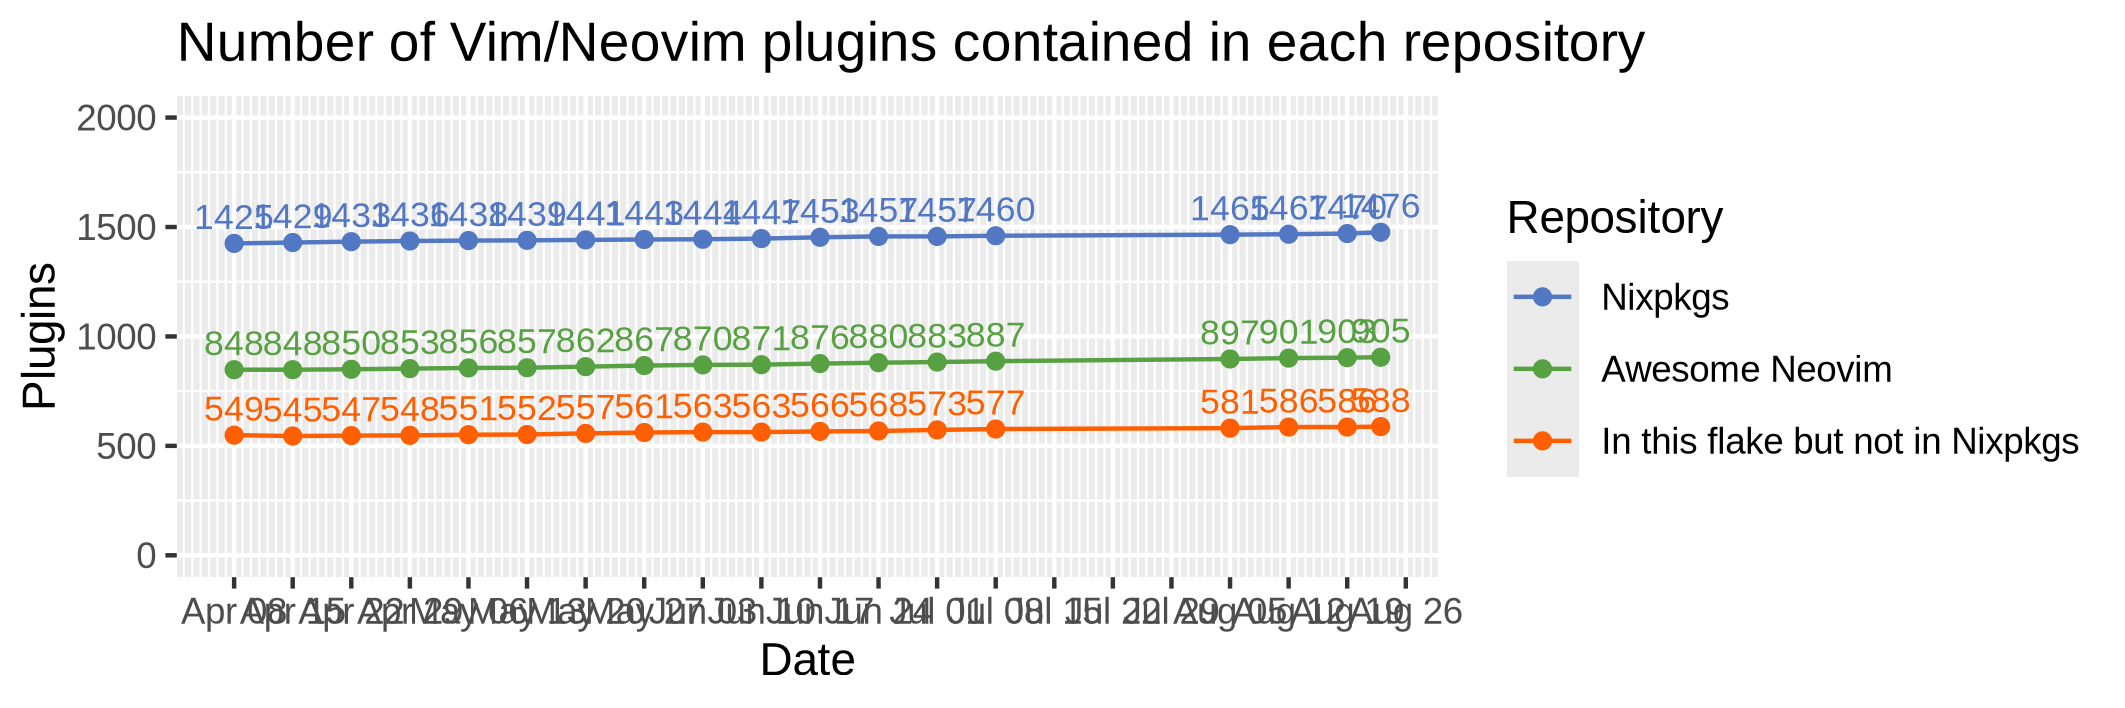
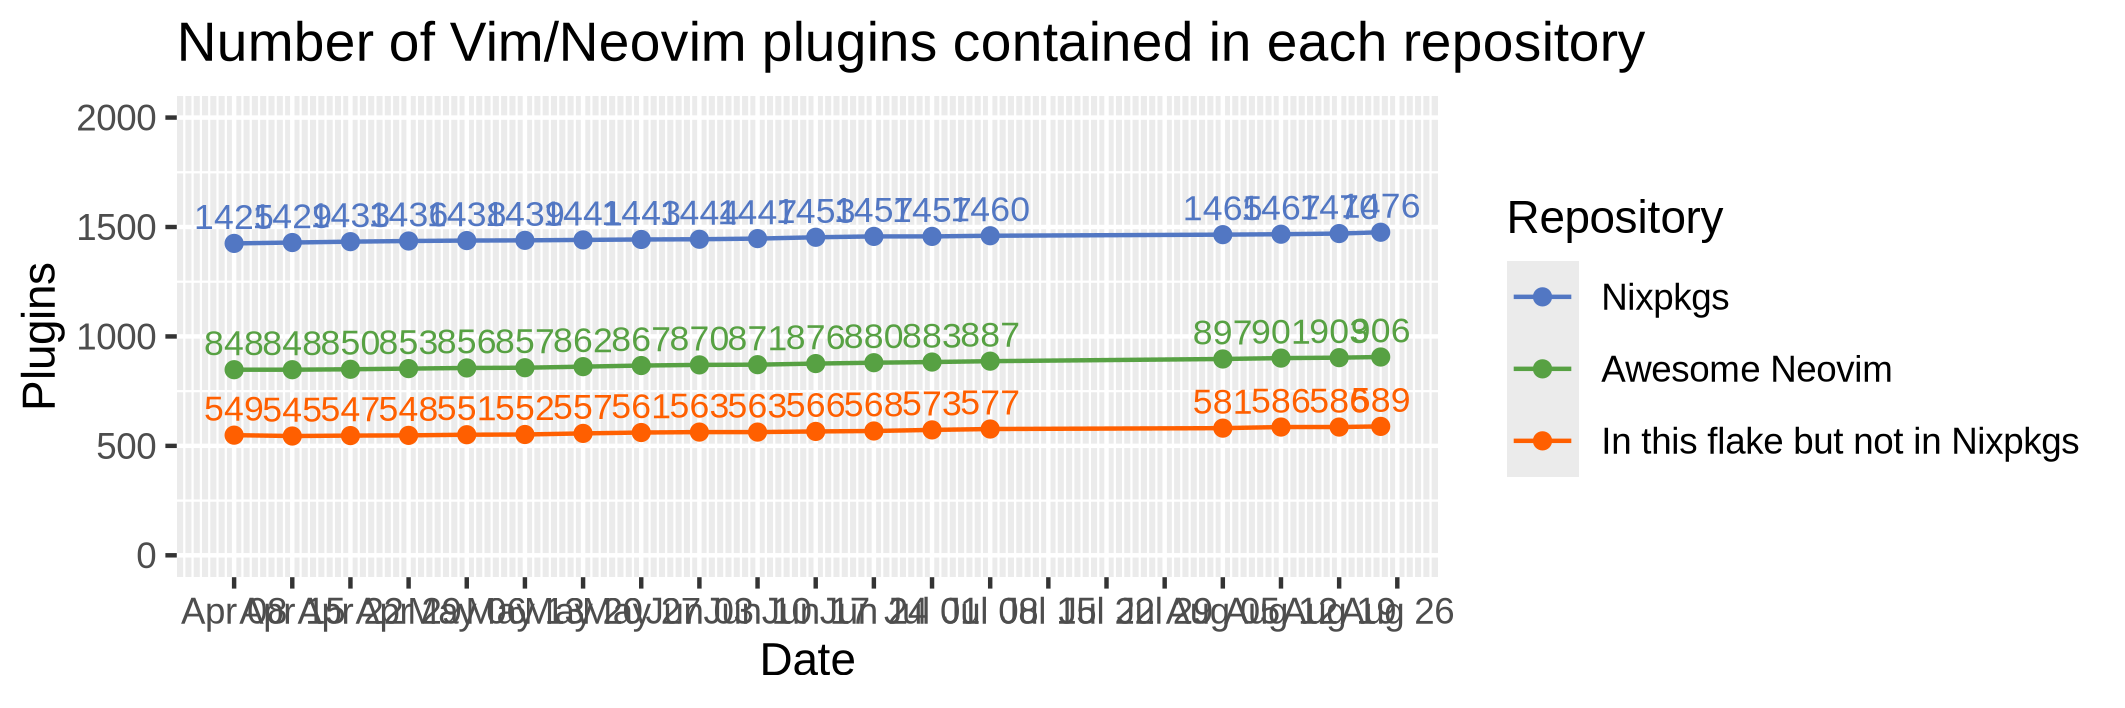
auto: update vim plugins

diff --git a/README.md b/README.md
@@ -8,7 +8,7 @@ Nix flake of Awesome Neovim plugins.
 
 [b1]: https://img.shields.io/github/actions/workflow/status/m15a/flake-awesome-neovim-plugins/check.yml?style=flat-square&logo=github&label=CI
 [b2]: https://github.com/m15a/flake-awesome-neovim-plugins/actions/workflows/check.yml
-[b3]: https://img.shields.io/badge/Awesome_Neovim_plugins-905-57A143?style=flat-square
+[b3]: https://img.shields.io/badge/Awesome_Neovim_plugins-906-57A143?style=flat-square
 [b4]: https://img.shields.io/endpoint?url=https://flakehub.com/f/m15a/flake-awesome-neovim-plugins/badge&style=flat-square
 [b5]: https://flakehub.com/flake/m15a/flake-awesome-neovim-plugins
 
